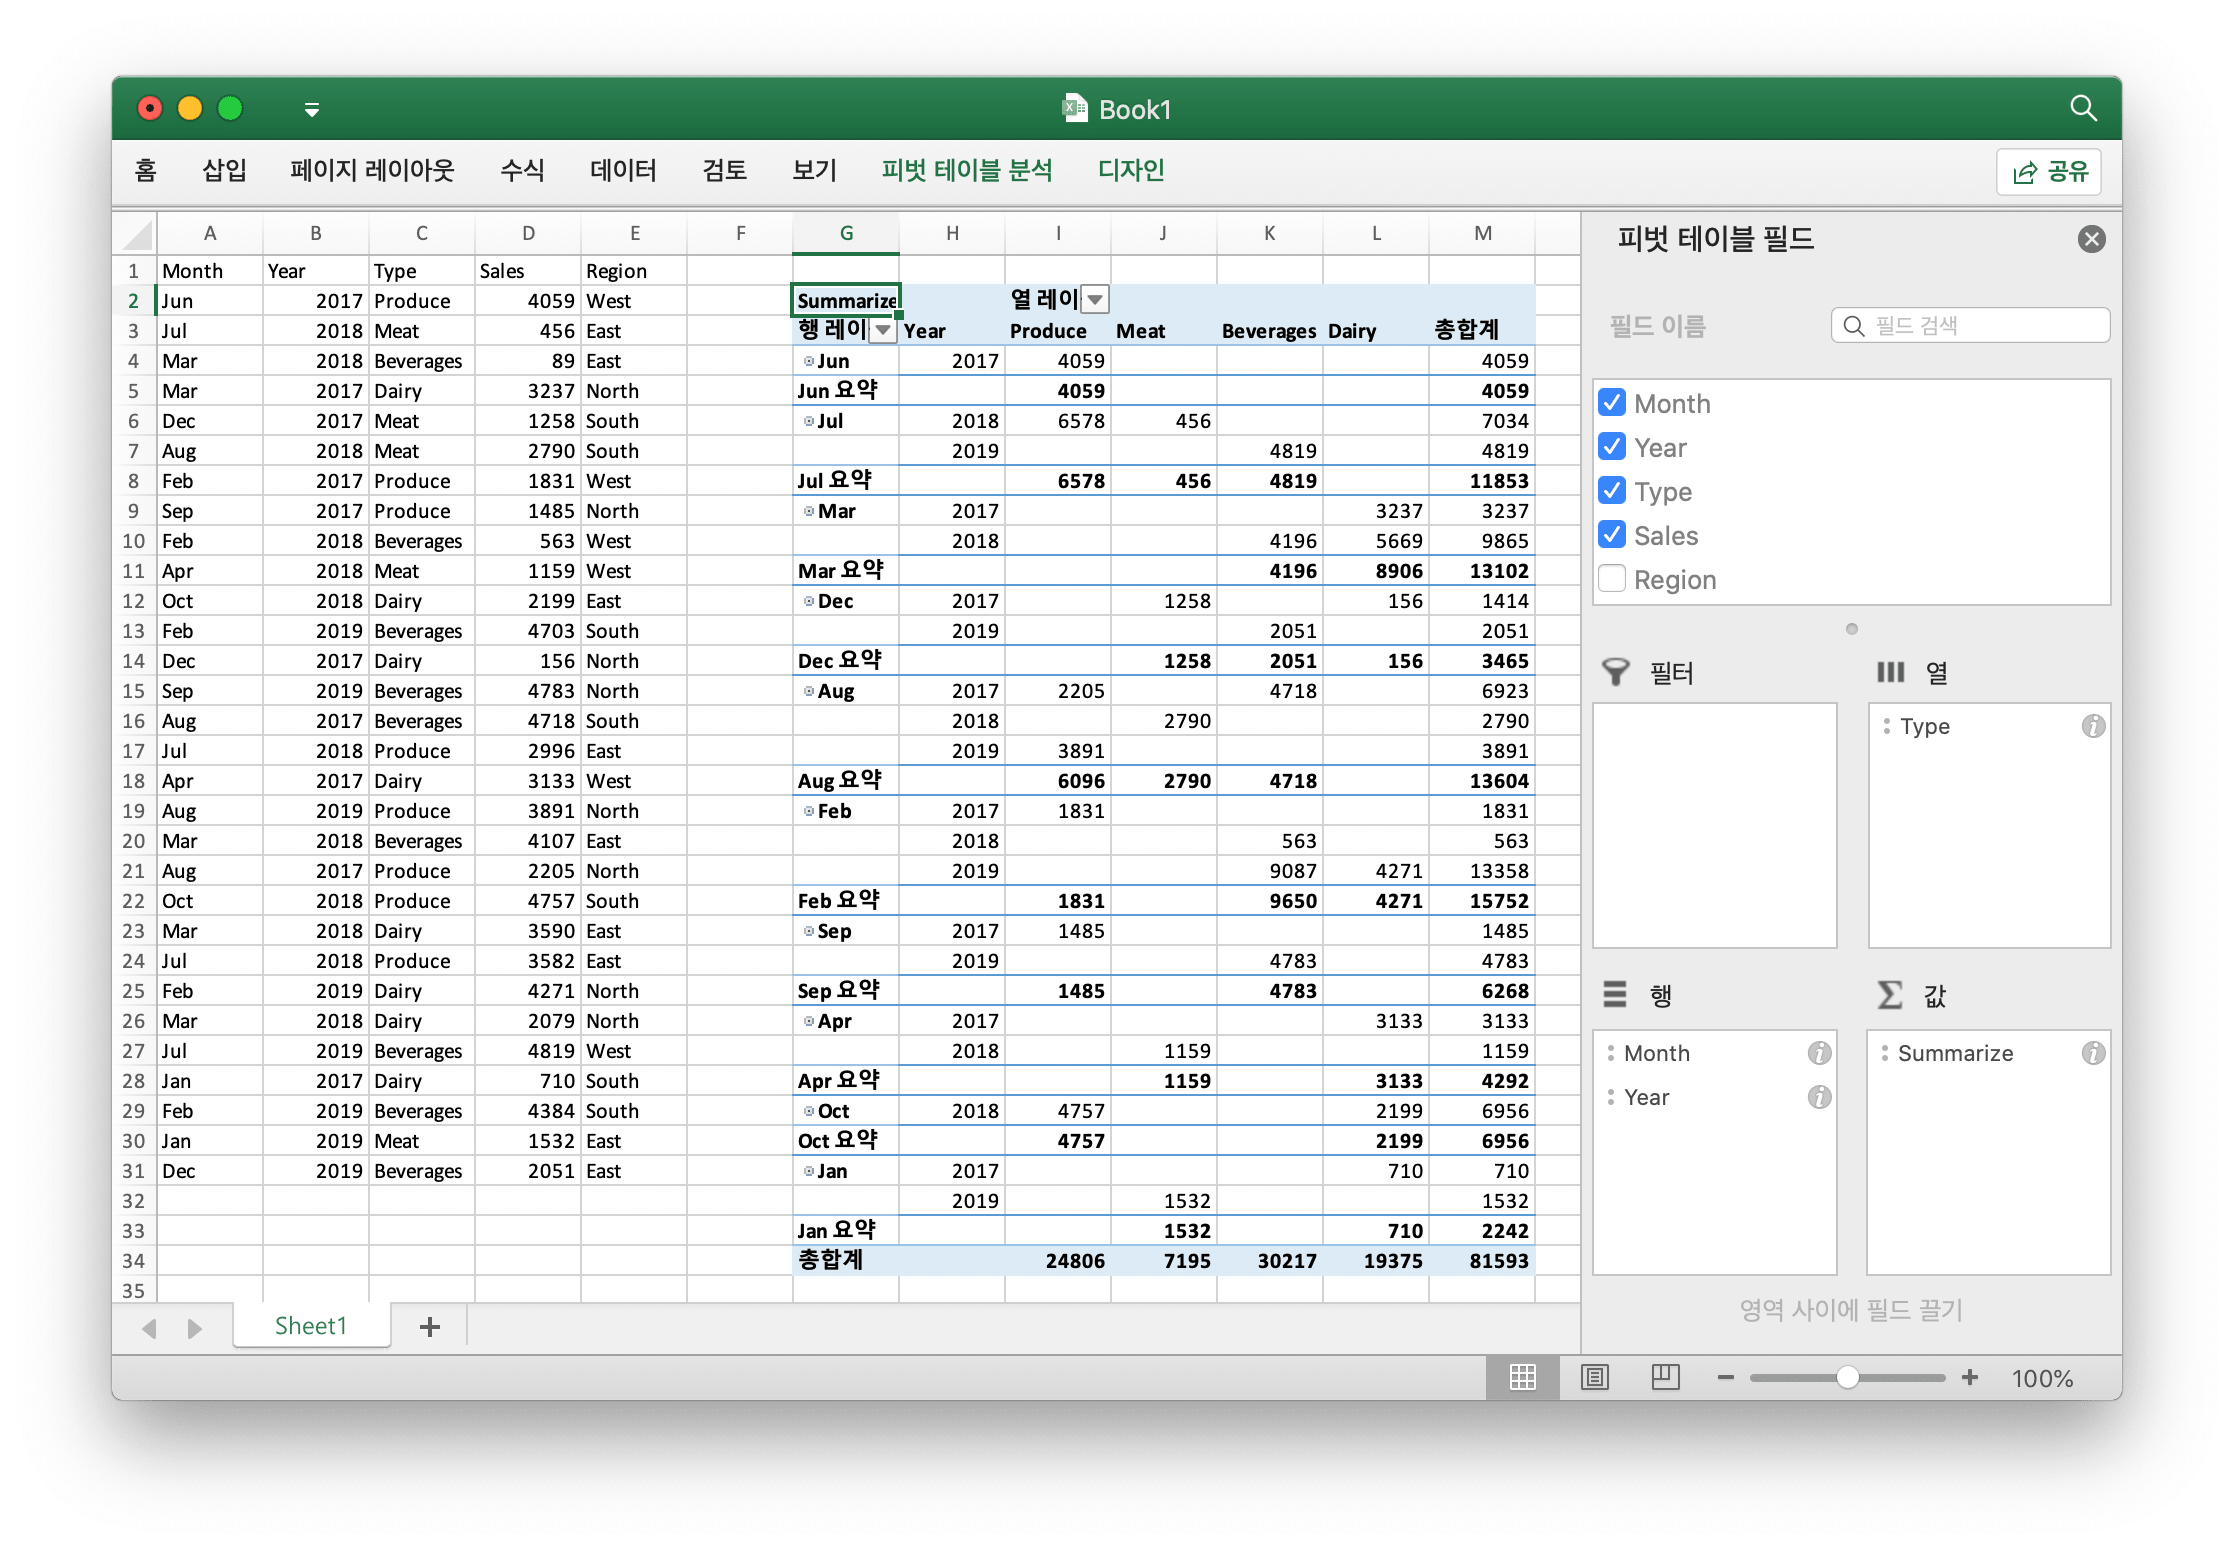
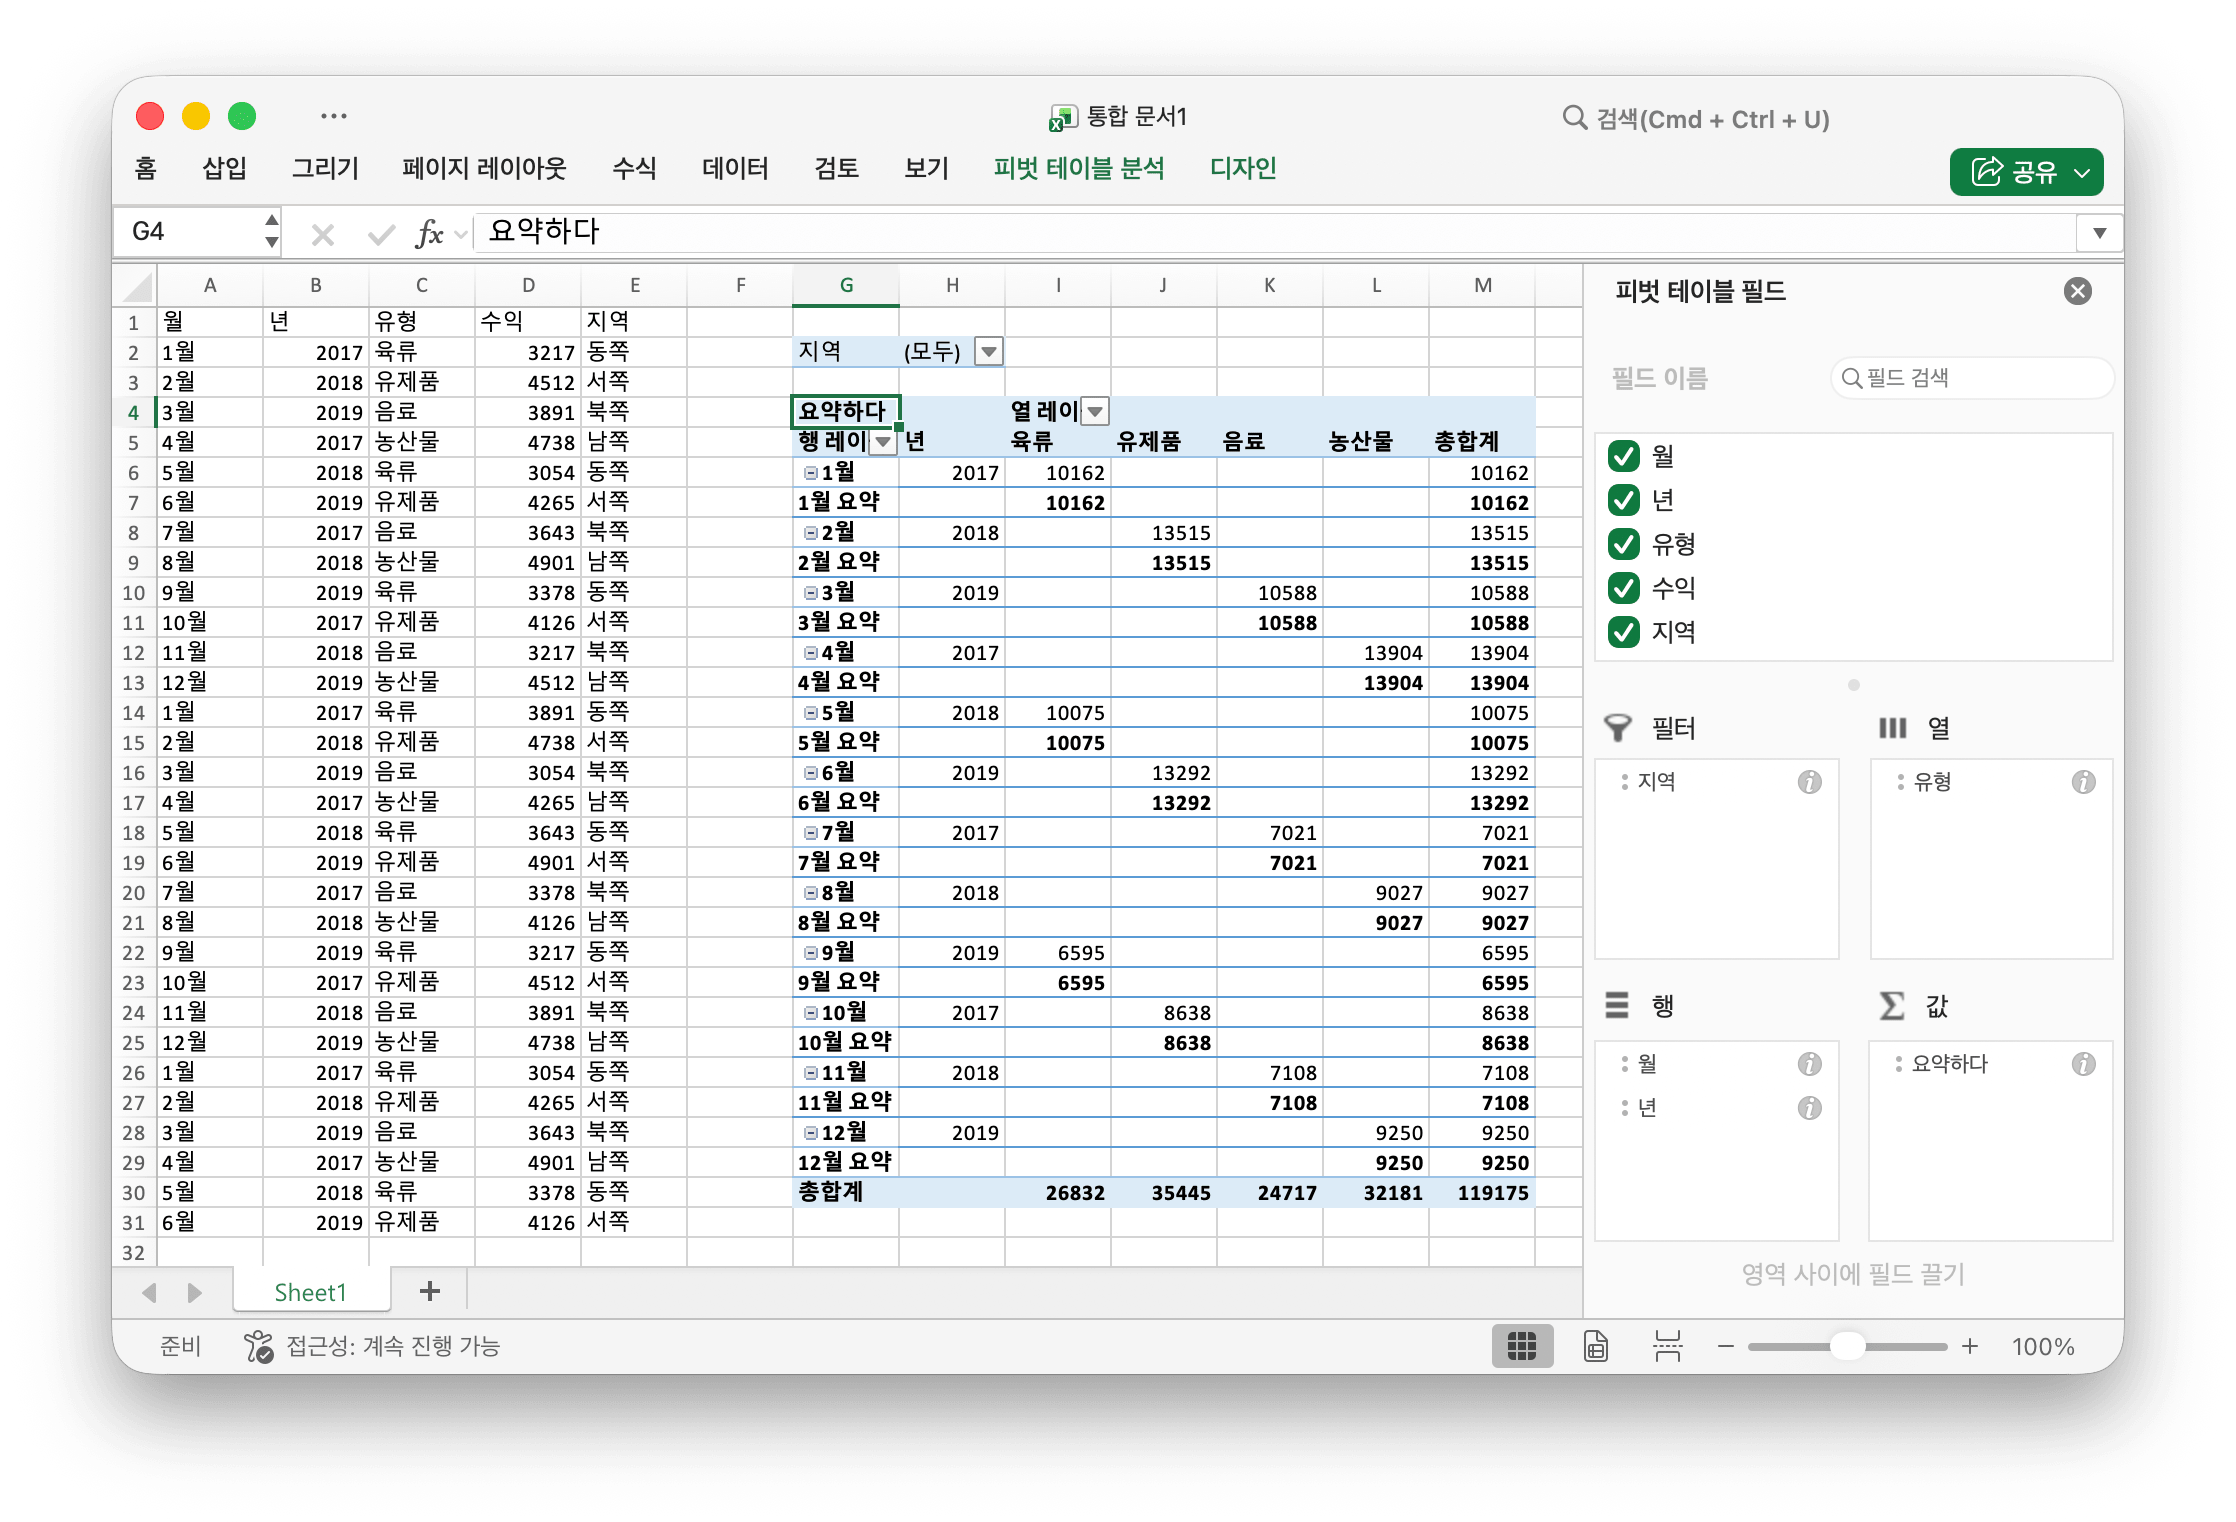
Update ko version docs for new SelectedItems fields in PivotTableOptions and SlicerOptions data type
- This related for xuri/excelize#2154, and xuri/excelize#2271

diff --git a/ko/pivot.md b/ko/pivot.md
@@ -55,6 +55,7 @@ type PivotTableField struct {
     Subtotal        string
     DefaultSubtotal bool
     NumFmt          int
+    SelectedItems   []string
 }
 ```
 
@@ -76,6 +77,8 @@ type PivotTableField struct {
 
 `Name` 은 데이터 필드의 이름을 지정합니다. 데이터 필드 이름에 최대 `255` 자를 사용할 수 있으며 초과 문자는 잘립니다.
 
+`SelectedItems` 는 피벗 테이블 필드에서 기본적으로 선택되는 항목을 지정합니다. 선택되는 항목은 해당 필드에서 참조하는 셀 범위 내의 값이어야 합니다.
+
 ## 피벗 테이블 만들기 {#AddPivotTable}
 
 ```go
@@ -84,16 +87,15 @@ func (f *File) AddPivotTable(opts *PivotTableOptions) error
 
 AddPivotTable 은 지정된 피벗 테이블 옵션으로 피벗 테이블을 추가하는 방법을 제공합니다.
 
-예를 들어, `Sheet1!$G$2:$M$34` 영역에 데이터 소스가 `Sheet1!$A$1:$E$31` 인 피벗 테이블을 작성하십시오.
+예를 들어, `Sheet1!G4:M30` 영역에 데이터 소스가 `Sheet1!A1:E31` 인 피벗 테이블을 작성하십시오.
 
-<p align="center"><img width="1117" src="./images/pivot_table_01.png" alt="Go 를 사용하여 excelize 로 피벗 테이블 만들기"></p>
+<p align="center"><img width="1118" src="./images/pivot_table_01.png" alt="Go 를 사용하여 excelize 로 피벗 테이블 만들기"></p>
 
 ```go
 package main
 
 import (
     "fmt"
-    "math/rand"
 
     "github.com/xuri/excelize/v2"
 )
@@ -106,30 +108,40 @@ func main() {
         }
     }()
     // 시트에 일부 데이터 생성
-    month := []string{"Jan", "Feb", "Mar", "Apr", "May",
-        "Jun", "Jul", "Aug", "Sep", "Oct", "Nov", "Dec"}
+    month := []string{"1월", "2월", "3월", "4월", "5월", "6월",
+        "7월", "8월", "9월", "10월", "11월", "12월"}
     year := []int{2017, 2018, 2019}
-    types := []string{"Meat", "Dairy", "Beverages", "Produce"}
-    region := []string{"East", "West", "North", "South"}
-    f.SetSheetRow("Sheet1", "A1", &[]string{"Month", "Year", "Type", "Sales", "Region"})
+    types := []string{"육류", "유제품", "음료", "농산물"}
+    revenue := []int{3217, 4512, 3891, 4738, 3054, 4265, 3643, 4901, 3378, 4126}
+    region := []string{"동쪽", "서쪽", "북쪽", "남쪽"}
+    if err := f.SetSheetRow(
+        "Sheet1", "A1", &[]string{"월", "년", "유형", "수익", "지역"},
+    ); err != nil {
+        fmt.Println(err)
+        return
+    }
     for row := 2; row < 32; row++ {
-        f.SetCellValue("Sheet1", fmt.Sprintf("A%d", row), month[rand.Intn(12)])
-        f.SetCellValue("Sheet1", fmt.Sprintf("B%d", row), year[rand.Intn(3)])
-        f.SetCellValue("Sheet1", fmt.Sprintf("C%d", row), types[rand.Intn(4)])
-        f.SetCellValue("Sheet1", fmt.Sprintf("D%d", row), rand.Intn(5000))
-        f.SetCellValue("Sheet1", fmt.Sprintf("E%d", row), region[rand.Intn(4)])
+        f.SetCellValue("Sheet1", fmt.Sprintf("A%d", row), month[(row-2)%len(month)])
+        f.SetCellValue("Sheet1", fmt.Sprintf("B%d", row), year[(row-2)%len(year)])
+        f.SetCellValue("Sheet1", fmt.Sprintf("C%d", row), types[(row-2)%len(types)])
+        f.SetCellValue("Sheet1", fmt.Sprintf("D%d", row), revenue[(row-2)%len(revenue)])
+        f.SetCellValue("Sheet1", fmt.Sprintf("E%d", row), region[(row-2)%len(region)])
     }
     if err := f.AddPivotTable(&excelize.PivotTableOptions{
         DataRange:       "Sheet1!A1:E31",
-        PivotTableRange: "Sheet1!G2:M34",
+        PivotTableRange: "Sheet1!G4:M30",
         Rows: []excelize.PivotTableField{
-            {Data: "Month", DefaultSubtotal: true}, {Data: "Year"}},
+            {Data: "월", DefaultSubtotal: true}, {Data: "년"},
+        },
         Filter: []excelize.PivotTableField{
-            {Data: "Region"}},
+            {Data: "지역"},
+        },
         Columns: []excelize.PivotTableField{
-            {Data: "Type", DefaultSubtotal: true}},
+            {Data: "유형", DefaultSubtotal: true},
+        },
         Data: []excelize.PivotTableField{
-            {Data: "Sales", Name: "Summarize", Subtotal: "Sum"}},
+            {Data: "수익", Name: "요약하다", Subtotal: "Sum"},
+        },
         RowGrandTotals: true,
         ColGrandTotals: true,
         ShowDrill:      true,
@@ -140,7 +152,7 @@ func main() {
         fmt.Println(err)
         return
     }
-    if err := f.SaveAs("Book1.xlsx"); err != nil {
+    if err := f.SaveAs("통합 문서1.xlsx"); err != nil {
         fmt.Println(err)
     }
 }

diff --git a/ko/README.md b/ko/README.md
@@ -9,7 +9,7 @@ Excelize 는 순수 Go로 작성된 라이브러리로 XLAM / XLSM / XLSX / XLTM
 - go.dev: [pkg.go.dev/github.com/xuri/excelize/v2](https://pkg.go.dev/github.com/xuri/excelize/v2)
 - 면허: [BSD 3-Clause](https://opensource.org/licenses/BSD-3-Clause)
 - 마지막 버전: [v2.10.1](https://github.com/xuri/excelize/releases/latest)
-- 문서 업데이트 시간: 2026 년 3 월 11 일
+- 문서 업데이트 시간: 2026 년 3 월 28 일
 
 ## 프로젝트 미션
 
